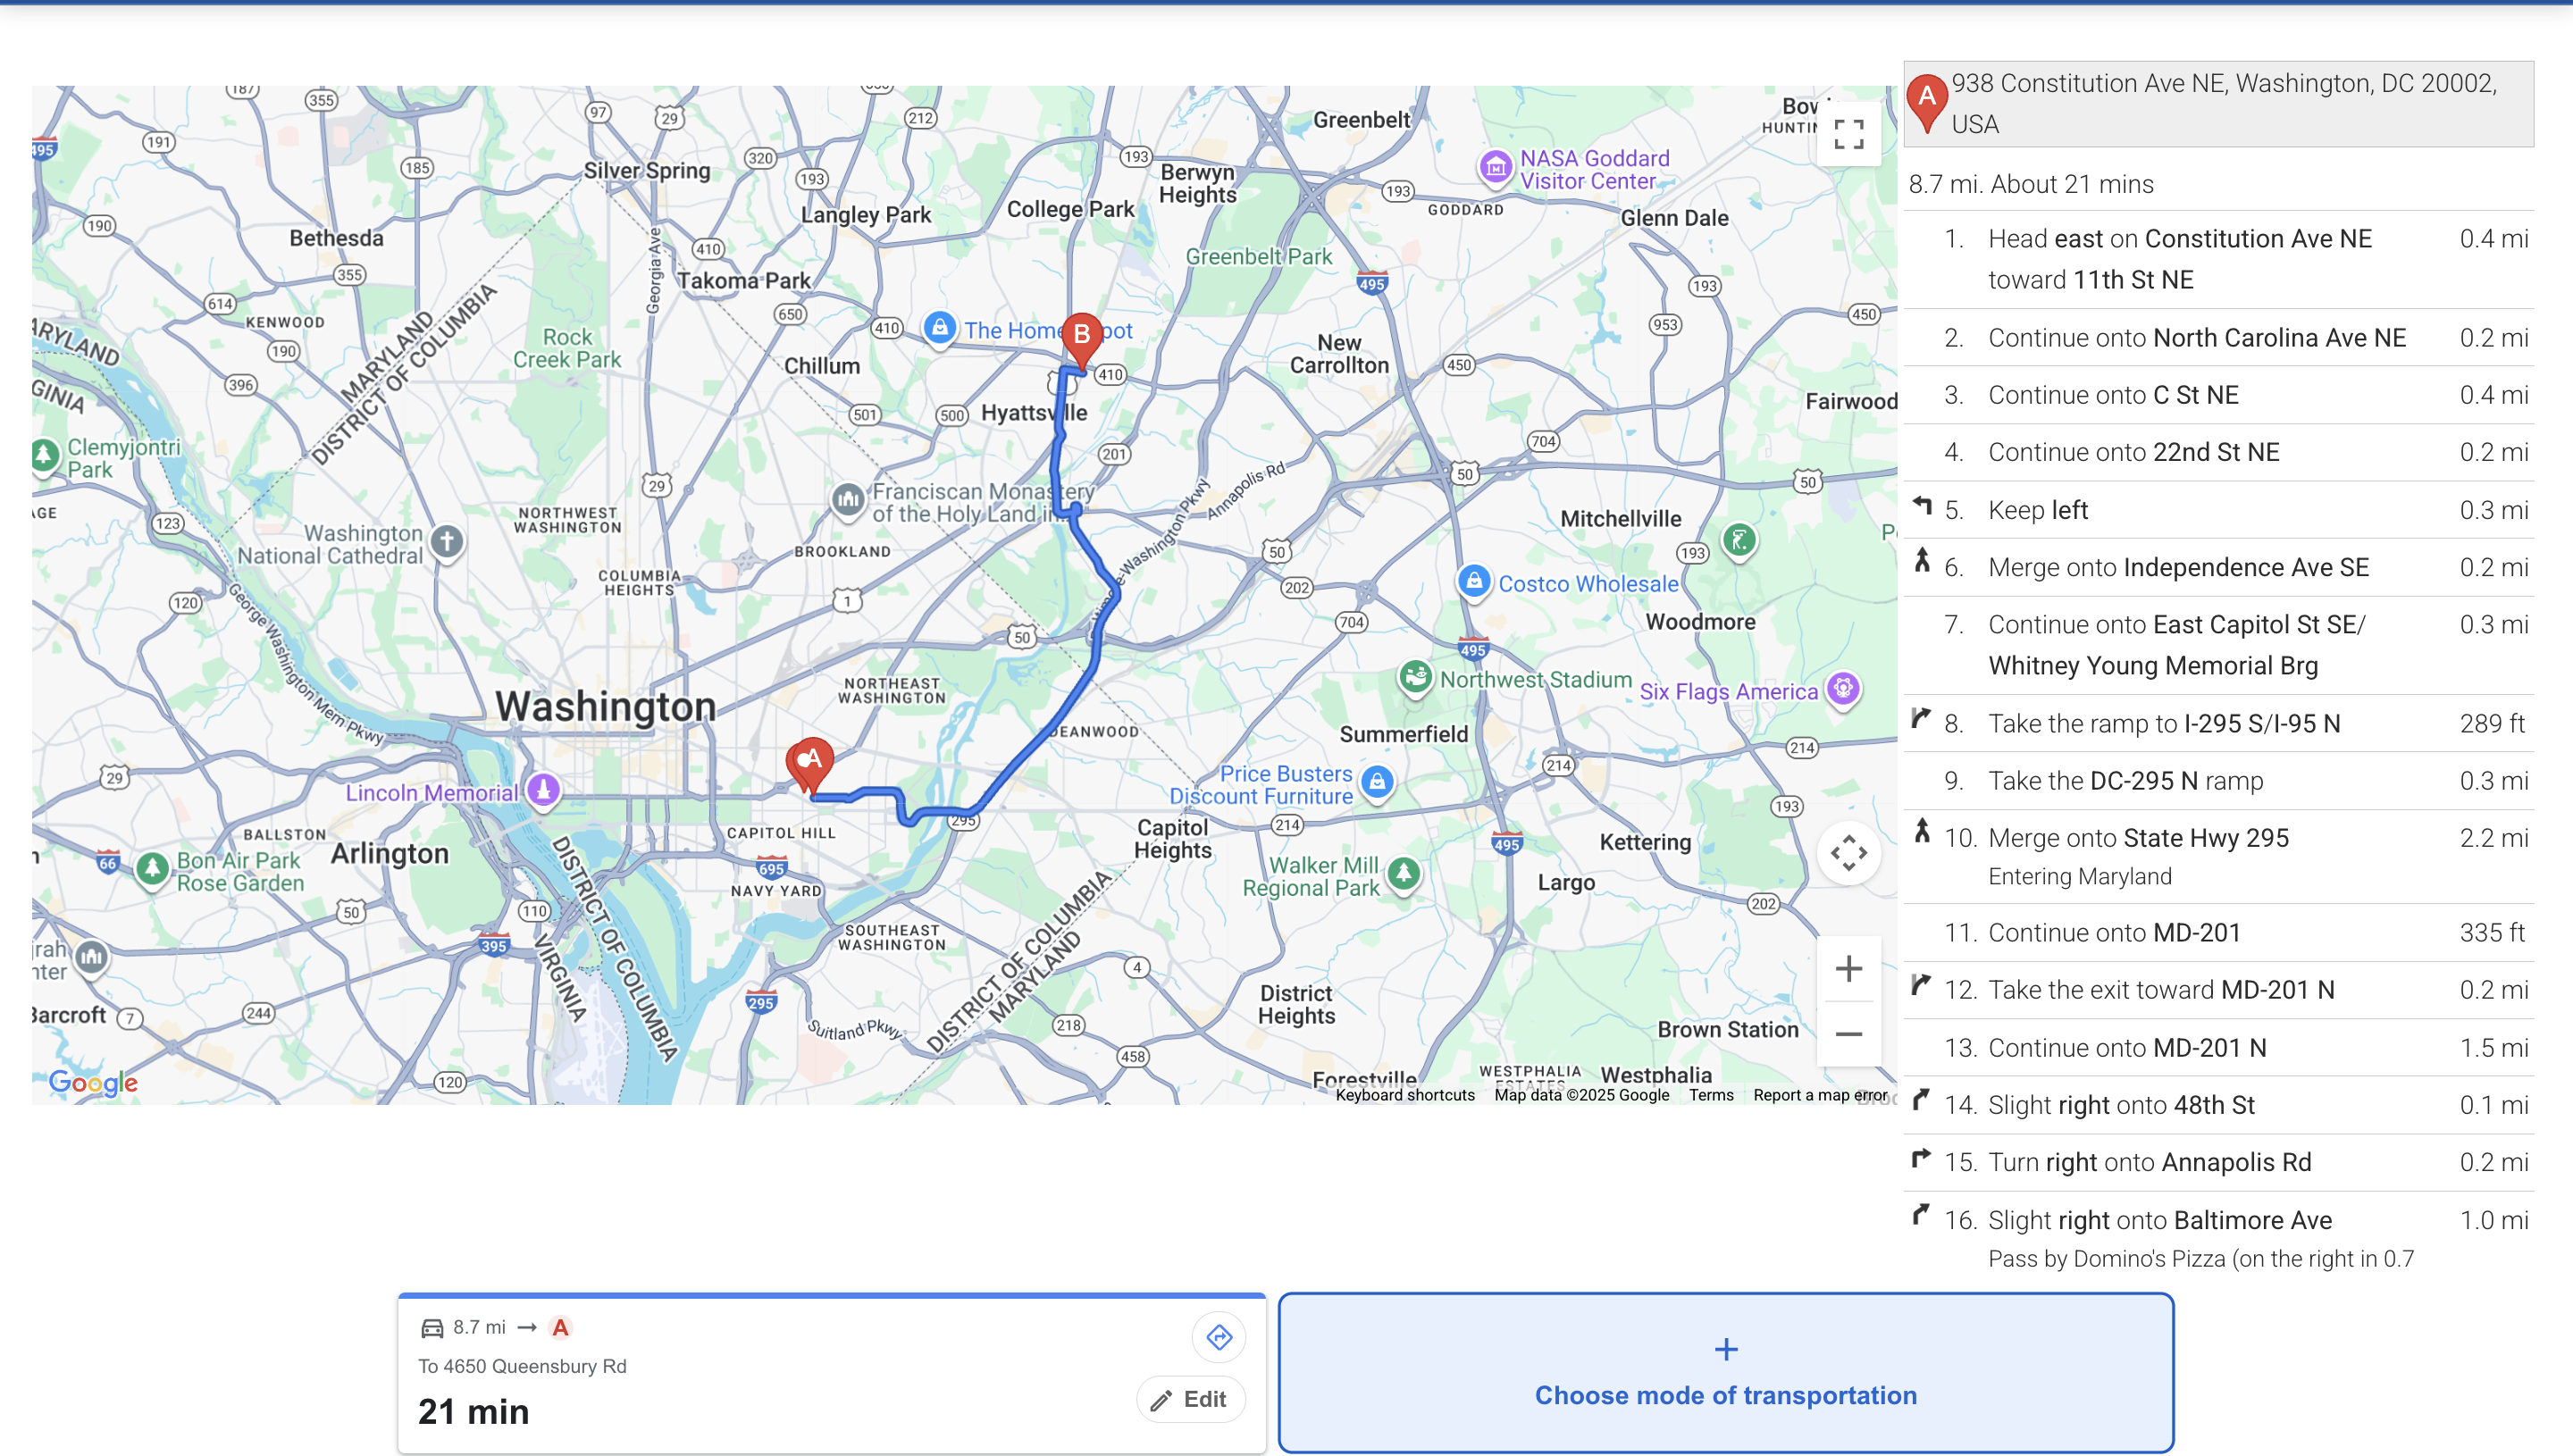
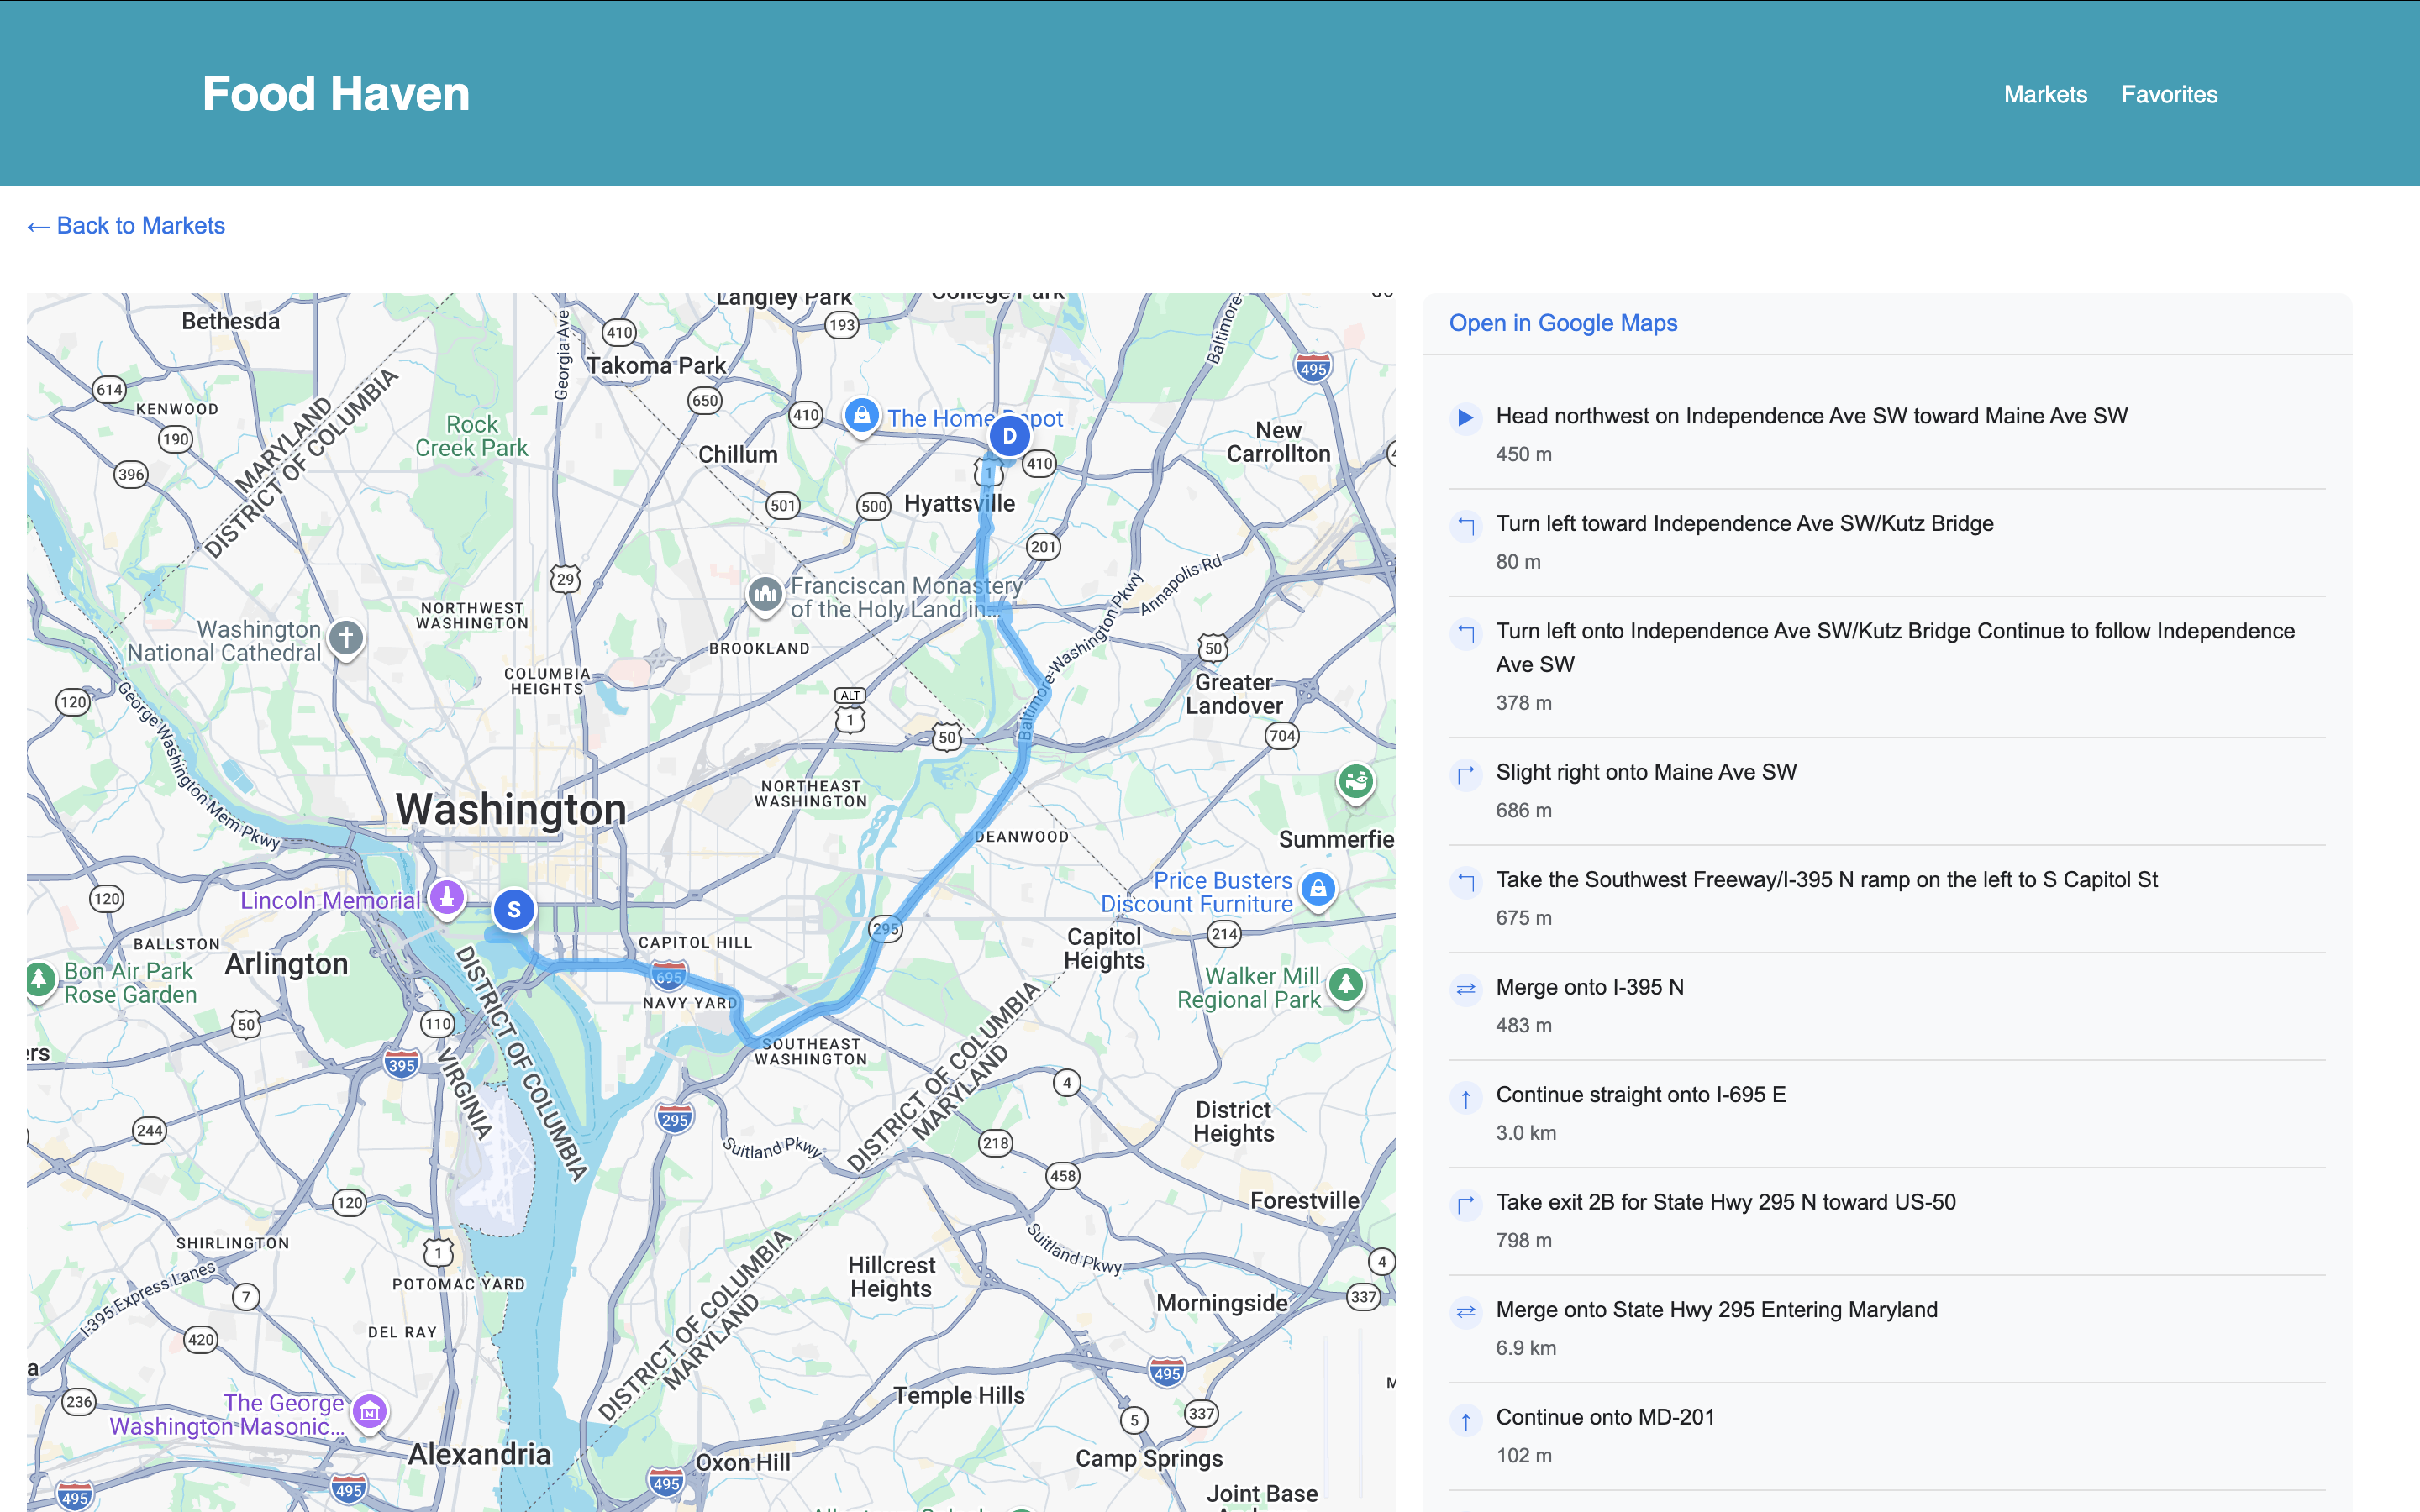
Updates

diff --git a/index.html b/index.html
@@ -4,8 +4,8 @@
     <meta charset="UTF-8" />
     <meta name="viewport" content="width=device-width, initial-scale=1.0, shrink-to-fit=no" />
     <title>Welcome to my Website</title>
-    <script type="module" crossorigin src="/my-website/assets/index-KD8vLCTW.js"></script>
-    <link rel="stylesheet" crossorigin href="/my-website/assets/index-B6QOXFhg.css">
+    <script type="module" crossorigin src="/my-website/assets/index-C_dQEGSt.js"></script>
+    <link rel="stylesheet" crossorigin href="/my-website/assets/index-CHZ107p4.css">
   </head>
   <body>
     <div id="root"></div>

diff --git a/assets/index-CHZ107p4.css b/assets/index-CHZ107p4.css
@@ -1,0 +1,1 @@
+@layer properties{@supports (((-webkit-hyphens:none)) and (not (margin-trim:inline))) or ((-moz-orient:inline) and (not (color:rgb(from red r g b)))){*,:before,:after,::backdrop{--tw-rotate-x:initial;--tw-rotate-y:initial;--tw-rotate-z:initial;--tw-skew-x:initial;--tw-skew-y:initial;--tw-scroll-snap-strictness:proximity;--tw-space-y-reverse:0;--tw-space-x-reverse:0;--tw-divide-y-reverse:0;--tw-border-style:solid;--tw-font-weight:initial;--tw-blur:initial;--tw-brightness:initial;--tw-contrast:initial;--tw-grayscale:initial;--tw-hue-rotate:initial;--tw-invert:initial;--tw-opacity:initial;--tw-saturate:initial;--tw-sepia:initial;--tw-drop-shadow:initial;--tw-drop-shadow-color:initial;--tw-drop-shadow-alpha:100%;--tw-drop-shadow-size:initial;--tw-backdrop-blur:initial;--tw-backdrop-brightness:initial;--tw-backdrop-contrast:initial;--tw-backdrop-grayscale:initial;--tw-backdrop-hue-rotate:initial;--tw-backdrop-invert:initial;--tw-backdrop-opacity:initial;--tw-backdrop-saturate:initial;--tw-backdrop-sepia:initial}}}@layer theme{:root,:host{--font-sans:ui-sans-serif,system-ui,sans-serif,"Apple Color Emoji","Segoe UI Emoji","Segoe UI Symbol","Noto Color Emoji";--font-mono:ui-monospace,SFMono-Regular,Menlo,Monaco,Consolas,"Liberation Mono","Courier New",monospace;--color-orange-500:oklch(70.5% .213 47.604);--color-green-500:oklch(72.3% .219 149.579);--color-blue-500:oklch(62.3% .214 259.815);--color-blue-600:oklch(54.6% .245 262.881);--color-gray-500:oklch(55.1% .027 264.364);--color-gray-700:oklch(37.3% .034 259.733);--color-gray-800:oklch(27.8% .033 256.848);--color-gray-900:oklch(21% .034 264.665);--color-black:#000;--color-white:#fff;--spacing:.25rem;--text-2xl:1.5rem;--text-2xl--line-height:calc(2/1.5);--text-3xl:1.875rem;--text-3xl--line-height: 1.2 ;--text-4xl:2.25rem;--text-4xl--line-height:calc(2.5/2.25);--text-5xl:3rem;--text-5xl--line-height:1;--text-6xl:3.75rem;--text-6xl--line-height:1;--text-7xl:4.5rem;--text-7xl--line-height:1;--font-weight-bold:700;--font-weight-extrabold:800;--radius-md:.375rem;--radius-2xl:1rem;--blur-sm:8px;--default-font-family:var(--font-sans);--default-mono-font-family:var(--font-mono)}}@layer base{*,:after,:before,::backdrop{box-sizing:border-box;border:0 solid;margin:0;padding:0}::file-selector-button{box-sizing:border-box;border:0 solid;margin:0;padding:0}html,:host{-webkit-text-size-adjust:100%;tab-size:4;line-height:1.5;font-family:var(--default-font-family,ui-sans-serif,system-ui,sans-serif,"Apple Color Emoji","Segoe UI Emoji","Segoe UI Symbol","Noto Color Emoji");font-feature-settings:var(--default-font-feature-settings,normal);font-variation-settings:var(--default-font-variation-settings,normal);-webkit-tap-highlight-color:transparent}hr{height:0;color:inherit;border-top-width:1px}abbr:where([title]){-webkit-text-decoration:underline dotted;text-decoration:underline dotted}h1,h2,h3,h4,h5,h6{font-size:inherit;font-weight:inherit}a{color:inherit;-webkit-text-decoration:inherit;text-decoration:inherit}b,strong{font-weight:bolder}code,kbd,samp,pre{font-family:var(--default-mono-font-family,ui-monospace,SFMono-Regular,Menlo,Monaco,Consolas,"Liberation Mono","Courier New",monospace);font-feature-settings:var(--default-mono-font-feature-settings,normal);font-variation-settings:var(--default-mono-font-variation-settings,normal);font-size:1em}small{font-size:80%}sub,sup{vertical-align:baseline;font-size:75%;line-height:0;position:relative}sub{bottom:-.25em}sup{top:-.5em}table{text-indent:0;border-color:inherit;border-collapse:collapse}:-moz-focusring{outline:auto}progress{vertical-align:baseline}summary{display:list-item}ol,ul,menu{list-style:none}img,svg,video,canvas,audio,iframe,embed,object{vertical-align:middle;display:block}img,video{max-width:100%;height:auto}button,input,select,optgroup,textarea{font:inherit;font-feature-settings:inherit;font-variation-settings:inherit;letter-spacing:inherit;color:inherit;opacity:1;background-color:#0000;border-radius:0}::file-selector-button{font:inherit;font-feature-settings:inherit;font-variation-settings:inherit;letter-spacing:inherit;color:inherit;opacity:1;background-color:#0000;border-radius:0}:where(select:is([multiple],[size])) optgroup{font-weight:bolder}:where(select:is([multiple],[size])) optgroup option{padding-inline-start:20px}::file-selector-button{margin-inline-end:4px}::placeholder{opacity:1}@supports (not ((-webkit-appearance:-apple-pay-button))) or (contain-intrinsic-size:1px){::placeholder{color:currentColor}@supports (color:color-mix(in lab,red,red)){::placeholder{color:color-mix(in oklab,currentcolor 50%,transparent)}}}textarea{resize:vertical}::-webkit-search-decoration{-webkit-appearance:none}::-webkit-date-and-time-value{min-height:1lh;text-align:inherit}::-webkit-datetime-edit{display:inline-flex}::-webkit-datetime-edit-fields-wrapper{padding:0}::-webkit-datetime-edit{padding-block:0}::-webkit-datetime-edit-year-field{padding-block:0}::-webkit-datetime-edit-month-field{padding-block:0}::-webkit-datetime-edit-day-field{padding-block:0}::-webkit-datetime-edit-hour-field{padding-block:0}::-webkit-datetime-edit-minute-field{padding-block:0}::-webkit-datetime-edit-second-field{padding-block:0}::-webkit-datetime-edit-millisecond-field{padding-block:0}::-webkit-datetime-edit-meridiem-field{padding-block:0}::-webkit-calendar-picker-indicator{line-height:1}:-moz-ui-invalid{box-shadow:none}button,input:where([type=button],[type=reset],[type=submit]){appearance:button}::file-selector-button{appearance:button}::-webkit-inner-spin-button{height:auto}::-webkit-outer-spin-button{height:auto}[hidden]:where(:not([hidden=until-found])){display:none!important}}@layer components;@layer utilities{.pointer-events-auto{pointer-events:auto}.pointer-events-none{pointer-events:none}.invisible{visibility:hidden}.visible{visibility:visible}.absolute{position:absolute}.relative{position:relative}.inset-0{inset:calc(var(--spacing)*0)}.top-1{top:calc(var(--spacing)*1)}.top-1\/1{top:100%}.right-1\/25{right:4%}.bottom-0{bottom:calc(var(--spacing)*0)}.bottom-1\/1{bottom:100%}.left-1\/25{left:4%}.m-auto{margin:auto}.mt-0{margin-top:calc(var(--spacing)*0)}.mt-5{margin-top:calc(var(--spacing)*5)}.mt-10{margin-top:calc(var(--spacing)*10)}.mt-32{margin-top:calc(var(--spacing)*32)}.mt-\[1vw\]{margin-top:1vw}.mt-\[4vw\]{margin-top:4vw}.mt-\[clamp\(3rem\,1vh\,5rem\)\]{margin-top:clamp(3rem,1vh,5rem)}.mb-0{margin-bottom:calc(var(--spacing)*0)}.mb-7{margin-bottom:calc(var(--spacing)*7)}.mb-\[clamp\(3rem\,1vh\,5rem\)\]{margin-bottom:clamp(3rem,1vh,5rem)}.ml-\[3vw\]{margin-left:3vw}.ml-\[5vw\]{margin-left:5vw}.ml-\[10vw\]{margin-left:10vw}.block{display:block}.flex{display:flex}.grid{display:grid}.hidden{display:none}.inline{display:inline}.inline-flex{display:inline-flex}.aspect-square{aspect-ratio:1}.h-15{height:calc(var(--spacing)*15)}.h-\[3vh\]{height:3vh}.h-\[10vw\]{height:10vw}.h-\[25vh\]{height:25vh}.h-\[90vh\]{height:90vh}.h-\[clamp\(2rem\,2vh\,50rem\)\]{height:clamp(2rem,2vh,50rem)}.h-\[clamp\(3rem\,3vw\,8rem\)\]{height:clamp(3rem,3vw,8rem)}.h-\[clamp\(4rem\,3vw\,8rem\)\]{height:clamp(4rem,3vw,8rem)}.h-\[clamp\(80px\,20\%\,200px\)\]{height:clamp(80px,20%,200px)}.h-\[clamp\(100px\,20\%\,200px\)\]{height:clamp(100px,20%,200px)}.h-auto{height:auto}.h-fit{height:fit-content}.h-full{height:100%}.h-lvh{height:100lvh}.h-screen{height:100vh}.h-svw{height:100svw}.max-h-\[80vh\]{max-height:80vh}.min-h-screen{min-height:100vh}.w-3\/4{width:75%}.w-8\/10{width:80%}.w-9\/10{width:90%}.w-50{width:calc(var(--spacing)*50)}.w-\[20vw\]{width:20vw}.w-\[90vw\]{width:90vw}.w-auto{width:auto}.w-full{width:100%}.w-screen{width:100vw}.max-w-\[92vw\]{max-width:92vw}.max-w-screen{max-width:100vw}.transform{transform:var(--tw-rotate-x,)var(--tw-rotate-y,)var(--tw-rotate-z,)var(--tw-skew-x,)var(--tw-skew-y,)}.resize-none{resize:none}.snap-x{scroll-snap-type:x var(--tw-scroll-snap-strictness)}.snap-mandatory{--tw-scroll-snap-strictness:mandatory}.grid-flow-col-dense{grid-auto-flow:column dense}.grid-cols-2{grid-template-columns:repeat(2,minmax(0,1fr))}.grid-rows-1{grid-template-rows:repeat(1,minmax(0,1fr))}.flex-col{flex-direction:column}.flex-wrap{flex-wrap:wrap}.place-content-evenly{place-content:space-evenly}.place-items-center{place-items:center}.content-center{align-content:center}.items-center{align-items:center}.justify-between{justify-content:space-between}.justify-center{justify-content:center}.justify-end{justify-content:flex-end}.justify-start{justify-content:flex-start}.justify-items-center{justify-items:center}.gap-\[clamp\(2rem\,1vh\,3rem\)\]{gap:clamp(2rem,1vh,3rem)}.gap-\[clamp\(20vh\,25vh\,30vh\)\]{gap:25vh}:where(.space-y-4>:not(:last-child)){--tw-space-y-reverse:0;margin-block-start:calc(calc(var(--spacing)*4)*var(--tw-space-y-reverse));margin-block-end:calc(calc(var(--spacing)*4)*calc(1 - var(--tw-space-y-reverse)))}.gap-x-1{column-gap:calc(var(--spacing)*1)}:where(.space-x-10>:not(:last-child)){--tw-space-x-reverse:0;margin-inline-start:calc(calc(var(--spacing)*10)*var(--tw-space-x-reverse));margin-inline-end:calc(calc(var(--spacing)*10)*calc(1 - var(--tw-space-x-reverse)))}:where(.divide-y-2>:not(:last-child)){--tw-divide-y-reverse:0;border-bottom-style:var(--tw-border-style);border-top-style:var(--tw-border-style);border-top-width:calc(2px*var(--tw-divide-y-reverse));border-bottom-width:calc(2px*calc(1 - var(--tw-divide-y-reverse)))}:where(.divide-black>:not(:last-child)){border-color:var(--color-black)}.place-self-center{place-self:center}.self-center{align-self:center}.overflow-hidden{overflow:hidden}.rounded-full{border-radius:3.40282e38px}.rounded-md{border-radius:var(--radius-md)}.rounded-b-2xl{border-bottom-right-radius:var(--radius-2xl);border-bottom-left-radius:var(--radius-2xl)}.border-1{border-style:var(--tw-border-style);border-width:1px}.border-none{--tw-border-style:none;border-style:none}.border-black{border-color:var(--color-black)}.bg-blue-500{background-color:var(--color-blue-500)}.bg-gray-500{background-color:var(--color-gray-500)}.bg-gray-700{background-color:var(--color-gray-700)}.bg-gray-800{background-color:var(--color-gray-800)}.bg-gray-900{background-color:var(--color-gray-900)}.bg-green-500{background-color:var(--color-green-500)}.bg-white{background-color:var(--color-white)}.bg-center{background-position:50%}.object-contain{object-fit:contain}.p-0{padding:calc(var(--spacing)*0)}.px-4{padding-inline:calc(var(--spacing)*4)}.px-20{padding-inline:calc(var(--spacing)*20)}.py-2{padding-block:calc(var(--spacing)*2)}.pt-10{padding-top:calc(var(--spacing)*10)}.pt-\[2vw\]{padding-top:2vw}.pt-\[calc\(2\%\+1vh\)\]{padding-top:calc(2% + 1vh)}.pt-\[clamp\(1rem\,2vw\,3rem\)\]{padding-top:clamp(1rem,2vw,3rem)}.pt-\[clamp\(4vh\,5vh\,10vh\)\]{padding-top:5vh}.pt-\[clamp\(4vh\,8vh\,10vh\)\]{padding-top:8vh}.pt-\[clamp\(15vh\,15vh\,20vh\)\]{padding-top:15vh}.pb-\[calc\(2\%\+1vh\)\]{padding-bottom:calc(2% + 1vh)}.pb-\[clamp\(6vh\,10vh\,15vh\)\]{padding-bottom:10vh}.pb-\[clamp\(10vh\,15vh\,20vh\)\]{padding-bottom:15vh}.pl-3{padding-left:calc(var(--spacing)*3)}.text-center{text-align:center}.indent-8{text-indent:calc(var(--spacing)*8)}.text-2xl{font-size:var(--text-2xl);line-height:var(--tw-leading,var(--text-2xl--line-height))}.text-3xl{font-size:var(--text-3xl);line-height:var(--tw-leading,var(--text-3xl--line-height))}.text-5xl{font-size:var(--text-5xl);line-height:var(--tw-leading,var(--text-5xl--line-height))}.text-\[clamp\(1\.5rem\,1\.5vw\,3rem\)\]{font-size:clamp(1.5rem,1.5vw,3rem)}.text-\[clamp\(1rem\,1\.5vw\,2rem\)\]{font-size:clamp(1rem,1.5vw,2rem)}.text-\[clamp\(1rem\,1\.5vw\,4rem\)\]{font-size:clamp(1rem,1.5vw,4rem)}.text-\[clamp\(1rem\,2vw\,3rem\)\]{font-size:clamp(1rem,2vw,3rem)}.text-\[clamp\(2\.5rem\,2vw\,3rem\)\]{font-size:clamp(2.5rem,2vw,3rem)}.text-\[clamp\(2\.5rem\,2vw\,4rem\)\]{font-size:clamp(2.5rem,2vw,4rem)}.text-\[clamp\(2rem\,2vw\,2rem\)\]{font-size:clamp(2rem,2vw,2rem)}.text-\[clamp\(2rem\,2vw\,3rem\)\]{font-size:clamp(2rem,2vw,3rem)}.text-\[clamp\(3rem\,2vw\,4rem\)\]{font-size:clamp(3rem,2vw,4rem)}.text-\[clamp\(3rem\,2vw\,5rem\)\]{font-size:clamp(3rem,2vw,5rem)}.font-bold{--tw-font-weight:var(--font-weight-bold);font-weight:var(--font-weight-bold)}.font-extrabold{--tw-font-weight:var(--font-weight-extrabold);font-weight:var(--font-weight-extrabold)}.text-wrap{text-wrap:wrap}.\!text-white{color:var(--color-white)!important}.text-blue-500{color:var(--color-blue-500)}.text-green-500{color:var(--color-green-500)}.text-orange-500{color:var(--color-orange-500)}.text-white{color:var(--color-white)}.filter{filter:var(--tw-blur,)var(--tw-brightness,)var(--tw-contrast,)var(--tw-grayscale,)var(--tw-hue-rotate,)var(--tw-invert,)var(--tw-saturate,)var(--tw-sepia,)var(--tw-drop-shadow,)}.backdrop-blur-sm{--tw-backdrop-blur:blur(var(--blur-sm));-webkit-backdrop-filter:var(--tw-backdrop-blur,)var(--tw-backdrop-brightness,)var(--tw-backdrop-contrast,)var(--tw-backdrop-grayscale,)var(--tw-backdrop-hue-rotate,)var(--tw-backdrop-invert,)var(--tw-backdrop-opacity,)var(--tw-backdrop-saturate,)var(--tw-backdrop-sepia,);backdrop-filter:var(--tw-backdrop-blur,)var(--tw-backdrop-brightness,)var(--tw-backdrop-contrast,)var(--tw-backdrop-grayscale,)var(--tw-backdrop-hue-rotate,)var(--tw-backdrop-invert,)var(--tw-backdrop-opacity,)var(--tw-backdrop-saturate,)var(--tw-backdrop-sepia,)}:is(.\*\:w-screen>*){width:100vw}:is(.\*\:justify-center>*){justify-content:center}:is(:is(.\*\:\*\:place-self-center>*)>*){place-self:center}:is(.\*\:text-3xl>*){font-size:var(--text-3xl);line-height:var(--tw-leading,var(--text-3xl--line-height))}:is(:is(.\*\:\*\:text-\[clamp\(2rem\,2vw\,4rem\)\]>*)>*),:is(.\*\:text-\[clamp\(2rem\,2vw\,4rem\)\]>*){font-size:clamp(2rem,2vw,4rem)}:is(.\*\:font-bold>*){--tw-font-weight:var(--font-weight-bold);font-weight:var(--font-weight-bold)}:is(.\*\:text-black>*){color:var(--color-black)}@media (hover:hover){.hover\:bg-blue-600:hover{background-color:var(--color-blue-600)}}@media not all and (min-width:64rem){.max-lg\:pt-10{padding-top:calc(var(--spacing)*10)}}@media not all and (min-width:40rem){.max-sm\:hidden{display:none}.max-sm\:text-center{text-align:center}}@media (min-width:40rem){.sm\:hidden{display:none}.sm\:h-\[4vh\]{height:4vh}.sm\:w-\[4vh\]{width:4vh}@media not all and (min-width:96rem){.sm\:max-2xl\:w-full{width:100%}}}@media (min-width:48rem){.md\:block{display:block}.md\:hidden{display:none}.md\:h-400{height:calc(var(--spacing)*400)}.md\:h-\[5vh\]{height:5vh}.md\:h-\[5vw\]{height:5vw}.md\:h-\[15vw\]{height:15vw}.md\:h-\[60vw\]{height:60vw}.md\:h-fit{height:fit-content}.md\:h-full{height:100%}.md\:h-screen{height:100vh}.md\:h-svh{height:100svh}.md\:h-svw{height:100svw}.md\:w-\[5vh\]{width:5vh}.md\:w-\[10vw\]{width:10vw}.md\:w-\[70vw\]{width:70vw}.md\:grid-flow-row{grid-auto-flow:row}.md\:grid-flow-row-dense{grid-auto-flow:dense}.md\:grid-cols-3{grid-template-columns:repeat(3,minmax(0,1fr))}.md\:grid-cols-4{grid-template-columns:repeat(4,minmax(0,1fr))}.md\:grid-rows-1{grid-template-rows:repeat(1,minmax(0,1fr))}.md\:grid-rows-2{grid-template-rows:repeat(2,minmax(0,1fr))}.md\:grid-rows-3{grid-template-rows:repeat(3,minmax(0,1fr))}.md\:grid-rows-5{grid-template-rows:repeat(5,minmax(0,1fr))}.md\:text-4xl{font-size:var(--text-4xl);line-height:var(--tw-leading,var(--text-4xl--line-height))}.md\:text-wrap{text-wrap:wrap}}@media (min-width:64rem){.lg\:\!h-\[6vh\]{height:6vh!important}.lg\:h-100{height:calc(var(--spacing)*100)}.lg\:h-\[6vh\]{height:6vh}.lg\:h-\[20vh\]{height:20vh}.lg\:h-\[60vh\]{height:60vh}.lg\:h-full{height:100%}.lg\:\!w-\[6vh\]{width:6vh!important}.lg\:w-\[6vh\]{width:6vh}.lg\:w-\[60vw\]{width:60vw}.lg\:w-\[80vw\]{width:80vw}.lg\:text-5xl{font-size:var(--text-5xl);line-height:var(--tw-leading,var(--text-5xl--line-height))}}@media (min-width:48rem){@media (min-width:64rem){.md\:min-lg\:grid-flow-row-dense{grid-auto-flow:dense}}}@media (min-width:80rem){.xl\:h-300{height:calc(var(--spacing)*300)}.xl\:h-\[3vw\]{height:3vw}.xl\:h-\[80vh\]{height:80vh}.xl\:h-full{height:100%}.xl\:h-lvh{height:100lvh}.xl\:h-svh{height:100svh}.xl\:h-svw{height:100svw}.xl\:min-h-screen{min-height:100vh}.xl\:w-\[6vw\]{width:6vw}.xl\:w-\[70vw\]{width:70vw}.xl\:text-6xl{font-size:var(--text-6xl);line-height:var(--tw-leading,var(--text-6xl--line-height))}}@media (min-width:40rem){@media (min-width:80rem){.sm\:min-xl\:w-9\/10{width:90%}}}@media (min-width:96rem){.\32xl\:block{display:block}.\32xl\:h-100{height:calc(var(--spacing)*100)}.\32xl\:h-150{height:calc(var(--spacing)*150)}.\32xl\:h-\[1\.5vw\]{height:1.5vw}.\32xl\:h-\[70vh\]{height:70vh}.\32xl\:h-full{height:100%}.\32xl\:h-svh{height:100svh}.\32xl\:min-h-screen{min-height:100vh}.\32xl\:w-6\/10{width:60%}.\32xl\:w-\[3vw\]{width:3vw}.\32xl\:w-\[30vw\]{width:30vw}.\32xl\:w-\[50vw\]{width:50vw}.\32xl\:grid-cols-4{grid-template-columns:repeat(4,minmax(0,1fr))}.\32xl\:grid-cols-5{grid-template-columns:repeat(5,minmax(0,1fr))}.\32xl\:grid-rows-1{grid-template-rows:repeat(1,minmax(0,1fr))}.\32xl\:grid-rows-3{grid-template-rows:repeat(3,minmax(0,1fr))}.\32xl\:text-7xl{font-size:var(--text-7xl);line-height:var(--tw-leading,var(--text-7xl--line-height))}}}html,body{background-color:var(--color-gray-800)}#carouselcontrols{width:calc(var(--spacing)*90);justify-content:space-between;display:flex;position:absolute}:is(#carouselcontrols>*){height:calc(var(--spacing)*12);width:calc(var(--spacing)*12);background-color:var(--color-blue-500);border-radius:3.40282e38px}@media (min-width:48rem){#carouselcontrols{display:none}}.show{display:block}@property --tw-rotate-x{syntax:"*";inherits:false}@property --tw-rotate-y{syntax:"*";inherits:false}@property --tw-rotate-z{syntax:"*";inherits:false}@property --tw-skew-x{syntax:"*";inherits:false}@property --tw-skew-y{syntax:"*";inherits:false}@property --tw-scroll-snap-strictness{syntax:"*";inherits:false;initial-value:proximity}@property --tw-space-y-reverse{syntax:"*";inherits:false;initial-value:0}@property --tw-space-x-reverse{syntax:"*";inherits:false;initial-value:0}@property --tw-divide-y-reverse{syntax:"*";inherits:false;initial-value:0}@property --tw-border-style{syntax:"*";inherits:false;initial-value:solid}@property --tw-font-weight{syntax:"*";inherits:false}@property --tw-blur{syntax:"*";inherits:false}@property --tw-brightness{syntax:"*";inherits:false}@property --tw-contrast{syntax:"*";inherits:false}@property --tw-grayscale{syntax:"*";inherits:false}@property --tw-hue-rotate{syntax:"*";inherits:false}@property --tw-invert{syntax:"*";inherits:false}@property --tw-opacity{syntax:"*";inherits:false}@property --tw-saturate{syntax:"*";inherits:false}@property --tw-sepia{syntax:"*";inherits:false}@property --tw-drop-shadow{syntax:"*";inherits:false}@property --tw-drop-shadow-color{syntax:"*";inherits:false}@property --tw-drop-shadow-alpha{syntax:"<percentage>";inherits:false;initial-value:100%}@property --tw-drop-shadow-size{syntax:"*";inherits:false}@property --tw-backdrop-blur{syntax:"*";inherits:false}@property --tw-backdrop-brightness{syntax:"*";inherits:false}@property --tw-backdrop-contrast{syntax:"*";inherits:false}@property --tw-backdrop-grayscale{syntax:"*";inherits:false}@property --tw-backdrop-hue-rotate{syntax:"*";inherits:false}@property --tw-backdrop-invert{syntax:"*";inherits:false}@property --tw-backdrop-opacity{syntax:"*";inherits:false}@property --tw-backdrop-saturate{syntax:"*";inherits:false}@property --tw-backdrop-sepia{syntax:"*";inherits:false}